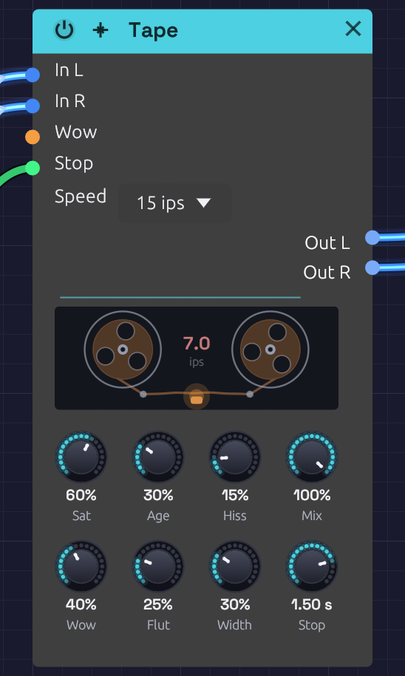
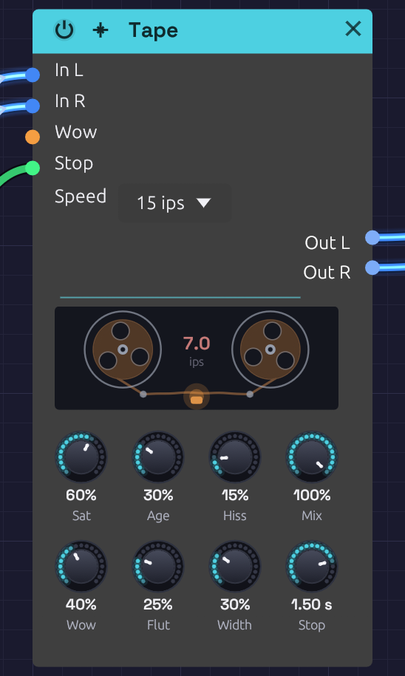
[Polish] Tape: the reels lurch with the wow
- The engine turns the reels at a speed that swings with the wow's two
  partials (the reel's own motions; the flutter stays on the tape at the
  head), 50 times exaggerated and soft-limited to ±85% so full Wow at
  7½ ips never stalls or reverses them
- At Wow 75% the reels run between about half and one and a half times
  their speed, in time with the pitch; at Wow 0 they turn steadily
- The readout reports the reels' speed (READOUT_REEL_SPEED) in place of the
  lag, and the display just turns the reels by READOUT_REEL
- Test: the reels lurch at 75%, hold steady with no wow (flutter or not),
  and stay forward at full wow on slow tape
- Re-shot module-tape.png; caption says how they lurch

Closes #219

Claude-Session: https://claude.ai/code/session_014ALJzwRvKKGLB2rM5XtqaL

Changed region(s): [[0.237, 0.466, 0.3852, 0.5592], [0.5926, 0.466, 0.7407, 0.5592]]

diff --git a/src/modules/tape.rs b/src/modules/tape.rs
@@ -453,8 +453,12 @@ pub struct Tape {
     reel_turns: f32,
     pitch_cents: f32,
     drive_peak: f32,
-    /// The left track's lag at the end of the last block.
+    /// The left track's lag at the end of the last block, all of it and the
+    /// wow's part alone.
     last_lag: f32,
+    last_wow_lag: f32,
+    /// How fast the reels turned in the last block, against the tape speed.
+    reel_speed: f32,
     ports: Vec<PortDefinition>,
     parameters: Vec<ParameterDefinition>,
 }
@@ -486,6 +490,8 @@ impl Tape {
             pitch_cents: 0.0,
             drive_peak: 0.0,
             last_lag: 0.0,
+            last_wow_lag: 0.0,
+            reel_speed: 1.0,
             ports: vec![
                 PortDefinition::input_with_default("in_l", "In L", SignalType::Audio, 0.0).describe("Left of the bus to put on tape"),
                 PortDefinition::input_with_default("in_r", "In R", SignalType::Audio, 0.0).describe("Right of the bus; copies left when unpatched"),
@@ -531,8 +537,9 @@ impl Tape {
     pub const READOUT_PITCH: usize = 1;
     pub const READOUT_DRIVE: usize = 2;
     pub const READOUT_DROPOUT: usize = 3;
-    /// How far the left read head lags, in seconds.
-    pub const READOUT_LAG: usize = 4;
+    /// How fast the reels are turning against the tape speed: 1 steady, and
+    /// swinging either side of it with the wow, exaggerated for the eye.
+    pub const READOUT_REEL_SPEED: usize = 4;
     /// How far the Stop has slowed the transport: 0 at speed, 1 stopped.
     pub const READOUT_BRAKE: usize = 5;
 
@@ -670,6 +677,7 @@ impl DspModule for Tape {
 
         let mut drive_peak = 0.0f32;
         let mut lag_left = self.last_lag;
+        let mut wow_left = self.last_wow_lag;
         let mut travelled = 0.0;
         for i in 0..context.block_size {
             let x_left = in_left.and_then(|buf| buf.samples.get(i).copied()).unwrap_or(0.0);
@@ -690,6 +698,7 @@ impl DspModule for Tape {
             let drag_left = self.transport_left.next_drag();
             let drag_right = self.transport_right.next_drag();
             lag_left = (0..4).map(|p| lag[p] * drag_left[p]).sum::<f32>();
+            wow_left = lag[0] * drag_left[0] + lag[1] * drag_left[1];
             let lag_right_own = (0..4).map(|p| lag[p] * drag_right[p]).sum::<f32>();
             let lag_right = lag_left + self.width.next() * (lag_right_own - lag_left);
 
@@ -721,13 +730,18 @@ impl DspModule for Tape {
             out_right.samples[i] = x_right + mix * (wet_right - x_right);
         }
 
-        // For the display: the reels turn at the speed, and the pitch follows the lag
+        // For the display: the pitch follows the lag, and the reels turn at
+        // the speed, lurching with the wow. The flutter is the capstan's, so
+        // it stays off the reels
         let block = context.block_size as f32;
         if block > 0.0 {
             self.pitch_cents = -(lag_left - self.last_lag) / block * CENTS_PER_DEVIATION;
-            self.reel_turns = (self.reel_turns + REEL_TURNS_PER_SECOND * speed.rate * travelled / sr).fract();
+            self.reel_speed = reel_speed(-(wow_left - self.last_wow_lag) / block);
+            self.reel_turns =
+                (self.reel_turns + REEL_TURNS_PER_SECOND * speed.rate * self.reel_speed * travelled / sr).fract();
         }
         self.last_lag = lag_left;
+        self.last_wow_lag = wow_left;
         self.drive_peak = drive_peak / RecordHead::LEVEL;
     }
 
@@ -750,6 +764,8 @@ impl DspModule for Tape {
             value.reset(value.target());
         }
         self.last_lag = 0.0;
+        self.last_wow_lag = 0.0;
+        self.reel_speed = 1.0;
         self.pitch_cents = 0.0;
         self.drive_peak = 0.0;
     }
@@ -760,7 +776,7 @@ impl DspModule for Tape {
         readout.values[Self::READOUT_PITCH] = self.pitch_cents;
         readout.values[Self::READOUT_DRIVE] = self.drive_peak;
         readout.values[Self::READOUT_DROPOUT] = self.dropouts.gain;
-        readout.values[Self::READOUT_LAG] = self.last_lag / self.sample_rate;
+        readout.values[Self::READOUT_REEL_SPEED] = self.reel_speed;
         readout.values[Self::READOUT_BRAKE] = 1.0 - self.stop.speed();
         Some(readout)
     }
@@ -768,6 +784,21 @@ impl DspModule for Tape {
 
 /// How fast the display's reels turn at 15 ips.
 pub const REEL_TURNS_PER_SECOND: f32 = 0.6;
+
+/// How many times over the reels show the wow's swing in speed: the 22
+/// cents of Wow at 75% swing them about half as fast again either way.
+const REEL_LURCH: f32 = 50.0;
+
+/// The most the reels' lurch can take from or add to their speed, so even
+/// full Wow at 7½ ips never stalls them or runs them backwards.
+const REEL_LURCH_MAX: f32 = 0.85;
+
+/// How fast the reels turn against the tape speed, for the wow's swing
+/// in the tape's speed (`d` in a ratio of `1 + d`): exaggerated so the eye
+/// can follow it, and gently held back as it nears the limit.
+fn reel_speed(deviation: f32) -> f32 {
+    1.0 + REEL_LURCH_MAX * (REEL_LURCH * deviation / REEL_LURCH_MAX).tanh()
+}
 
 #[cfg(test)]
 mod tests {
@@ -1178,6 +1209,50 @@ mod tests {
         assert!(readout.values[Tape::READOUT_REEL] > 0.0);
         assert!(readout.values[Tape::READOUT_DRIVE] > 1.0);
         assert_eq!(readout.values[Tape::READOUT_DROPOUT], 1.0);
+    }
+
+    /// The slowest and fastest the reels turn, block by block, over `seconds`.
+    fn reel_speeds(params: &[f32], seconds: f32) -> (f32, f32) {
+        let mut tape = tape();
+        let ctx = ProcessContext::new(SR, BLOCK);
+        let l = SignalBuffer::audio(BLOCK);
+        let r = SignalBuffer::unconnected(BLOCK, SignalType::Audio);
+        let cv = SignalBuffer::control(BLOCK);
+        let gate = SignalBuffer::gate(BLOCK);
+        let mut outputs = vec![SignalBuffer::audio(BLOCK), SignalBuffer::audio(BLOCK)];
+        let (mut slowest, mut fastest) = (f32::MAX, f32::MIN);
+        for _ in 0..(seconds * SR) as usize / BLOCK {
+            tape.process(&[&l, &r, &cv, &gate], &mut outputs, params, &ctx);
+            let speed = tape.readout(params).unwrap().values[Tape::READOUT_REEL_SPEED];
+            slowest = slowest.min(speed);
+            fastest = fastest.max(speed);
+        }
+        (slowest, fastest)
+    }
+
+    #[test]
+    fn test_the_reels_lurch_with_the_wow() {
+        // Wow at 75%: the reels swing well either side of their speed
+        let mut p = zeros();
+        p[Tape::PARAM_WOW] = 0.75;
+        let (slowest, fastest) = reel_speeds(&p, 6.0);
+        assert!(slowest < 0.7 && fastest > 1.3, "reels between {slowest} and {fastest}");
+
+        // Without wow or flutter they turn steadily, as they did
+        assert_eq!(reel_speeds(&zeros(), 2.0), (1.0, 1.0));
+
+        // The flutter is the capstan's: it shivers the tape, not the reels
+        let mut p = zeros();
+        p[Tape::PARAM_FLUTTER] = 1.0;
+        let (slowest, fastest) = reel_speeds(&p, 2.0);
+        assert_eq!((slowest, fastest), (1.0, 1.0));
+
+        // Full wow at 7½ ips lurches hard, but never stalls or reverses
+        let mut p = zeros();
+        p[Tape::PARAM_WOW] = 1.0;
+        p[Tape::PARAM_SPEED] = 0.0;
+        let (slowest, fastest) = reel_speeds(&p, 10.0);
+        assert!(slowest > 0.1 && fastest < 1.9, "reels between {slowest} and {fastest}");
     }
 
     /// Runs a mono input with a Stop gate, high over `stopped` (in seconds).

diff --git a/src/graph/tape_display.rs b/src/graph/tape_display.rs
@@ -1,7 +1,8 @@
 //! The Tape's display: two reels and the tape running between them.
 //!
 //! The reels turn at the tape speed, and lurch with the wow, many times
-//! exaggerated so the eye can follow what the ear hears as a slow sway. The
+//! exaggerated so the eye can follow what the ear hears as a slow sway (the
+//! engine turns them, so the lurch keeps time with the pitch). The
 //! tape between the guides trembles with the flutter as it crosses the
 //! head, and the head glows as Saturation drives it. Age fades the oxide
 //! from a fresh dark brown to a dusty tan, and a dropout thins the tape
@@ -14,12 +15,9 @@ use eframe::egui::{self, Color32, Pos2, Sense, Shape, Stroke, Vec2};
 use egui_node_graph2::NodeId;
 
 use crate::app::theme;
-use crate::modules::tape::{Tape, REEL_TURNS_PER_SECOND, SPEEDS};
+use crate::modules::tape::{Tape, SPEEDS};
 
 use super::{SynthGraph, SynthGraphState, SynthValueType};
-
-/// How many times over the reels show the read head's lag.
-const LAG_EXAGGERATION: f32 = 25.0;
 
 /// How far, in points, the tape between the guides trembles per cent of pitch.
 const TREMBLE_PER_CENT: f32 = 0.12;
@@ -49,13 +47,12 @@ pub fn tape_display(ui: &mut egui::Ui, node_id: NodeId, graph: &SynthGraph, user
         .copied()
         .unwrap_or_default();
     let values = readout.values;
-    let lag = values[Tape::READOUT_LAG];
     let pitch = values[Tape::READOUT_PITCH];
     let drive = values[Tape::READOUT_DRIVE];
     let running = 1.0 - values[Tape::READOUT_BRAKE].clamp(0.0, 1.25);
     // Before the engine has said anything, the tape is whole
     let dropout = if values[Tape::READOUT_DROPOUT] > 0.0 { values[Tape::READOUT_DROPOUT] } else { 1.0 };
-    let turns = values[Tape::READOUT_REEL] - lag * REEL_TURNS_PER_SECOND * speed.rate * LAG_EXAGGERATION;
+    let turns = values[Tape::READOUT_REEL];
 
     // As wide as the four knobs below
     let gap = ui.spacing().item_spacing.x;

diff --git a/docs/src/modules/effects/tape.md b/docs/src/modules/effects/tape.md
@@ -3,7 +3,7 @@
 **Module ID** `fx.tape` · **Category** Effect
 
 ![Tape module](../../images/module-tape.png)
-*The reels turn at the tape speed and sway with the wow; the head glows as Saturation drives it. When the Stop gate brakes the tape, the reels slow to a halt and the speed between them counts down*
+*The reels turn at the tape speed and lurch with the wow, dragging as the pitch sags and hurrying as it rises; the head glows as Saturation drives it. When the Stop gate brakes the tape, the reels slow to a halt and the speed between them counts down*
 
 The Tape module is a tape machine for a bus. Much of what makes vintage-flavoured music sound warm happens on tape, after the instruments: the record head's soft squash, the head bump in the low end, the slow sway and fast shiver of the transport, the top end the tape can't hold, and, on an old reel, dropouts and hiss. Put it on a mix bus or in front of the [Audio Output](../output/audio-output.md) to give the whole patch that sound.
 
